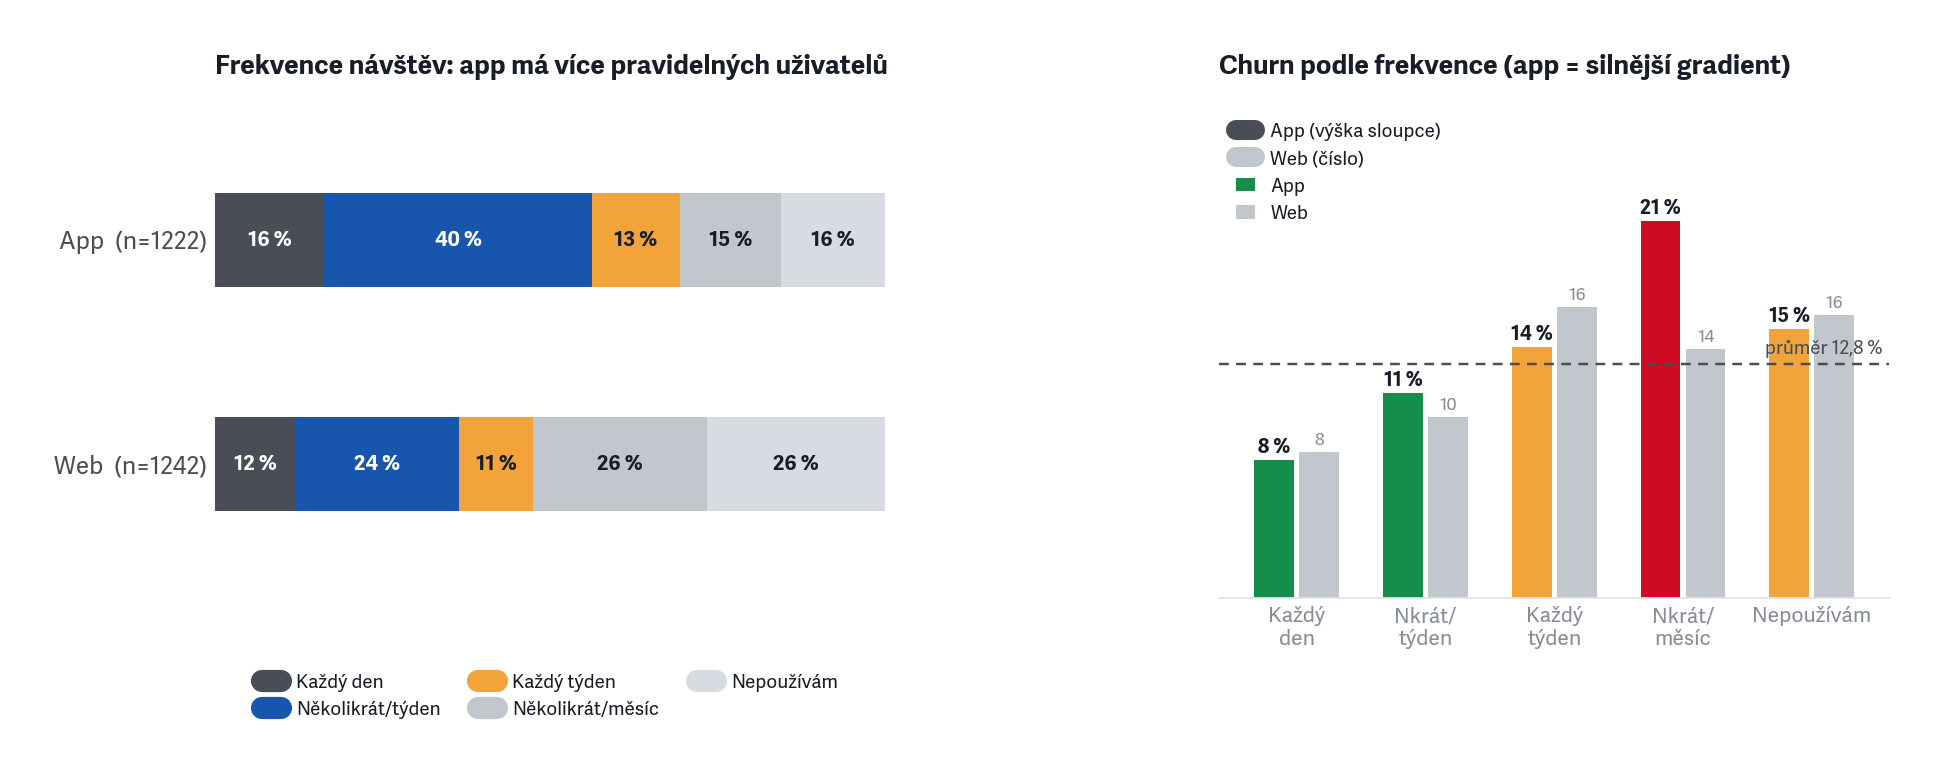
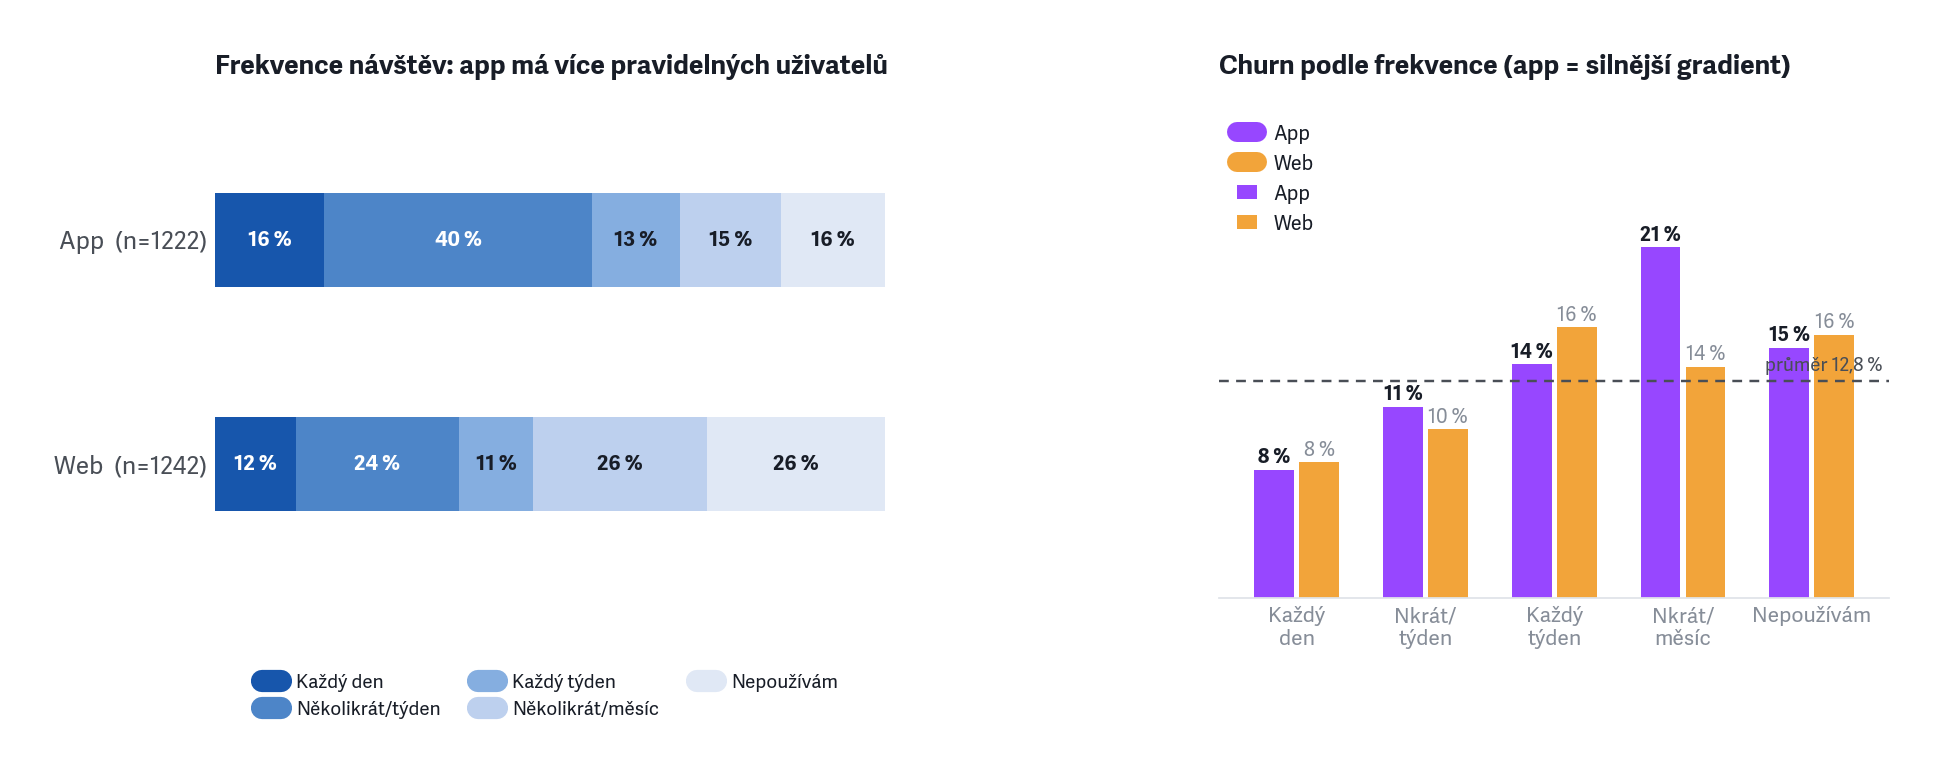
frekv_web_app.png: barvy opraveny (fialová=app, žlutá=web, modrý gradient vlevo)

diff --git a/charts/make_charts.py b/charts/make_charts.py
@@ -405,7 +405,8 @@ def chart_frekv_web_app():
     cats_hi2lo = [4, 3, 2, 1, 0]
     cat_labels  = {4: "Každý den", 3: "Několikrát/týden",
                    2: "Každý týden", 1: "Několikrát/měsíc", 0: "Nepoužívám"}
-    cat_colors  = [GRAPHITE, BLUE, AMBER, GRAYBAR, "#D8DCE2"]
+    # spektrum analogické k heatmapám: tmavá modrá → světle modrá → skoro bílá
+    cat_colors  = ["#1756AC", "#4D85C8", "#85AEE0", "#BDD0EE", "#E0E8F5"]
 
     def dist(ser):
         valid = ser.dropna()
@@ -442,9 +443,10 @@ def chart_frekv_web_app():
             w = data[v]
             ax1.barh(ri, w, left=x, height=bar_h, color=color, zorder=2)
             if w >= 7:
+                is_dark = color in ("#1756AC", "#4D85C8")
                 ax1.text(x + w / 2, ri, f"{w:.0f} %",
                          ha="center", va="center", fontsize=9.5,
-                         color="white" if color in (GRAPHITE, BLUE) else INK,
+                         color="white" if is_dark else INK,
                          fontweight="bold")
             x += w
 
@@ -469,28 +471,27 @@ def chart_frekv_web_app():
     bw     = 0.35
     labels_short = ["Každý\nden", "Nkrát/\ntýden", "Každý\ntýden", "Nkrát/\nměsíc", "Nepoužívám"]
 
-    for di, (ser_ch, color, series_label) in enumerate(
-            [(app_ch, GRAPHITE, "App"), (web_ch, GRAYBAR, "Web")]):
+    APP_COLOR = PURPLE   # fialová
+    WEB_COLOR = AMBER    # žlutá
+
+    for di, (ser_ch, bar_color, series_label) in enumerate(
+            [(app_ch, APP_COLOR, "App"), (web_ch, WEB_COLOR, "Web")]):
         for xi, v in enumerate(cats_hi2lo):
             val, n = ser_ch[v]
             if val is None:
                 continue
             xpos = xi + di * bw - bw / 2
-            bar_color = RED if val > 16 else (AMBER if val > 12 else GREEN)
-            bar_color = bar_color if di == 0 else GRAYBAR
             ax2.bar(xpos, val, width=bw * 0.88, color=bar_color, zorder=2,
                     label=series_label if xi == 0 else "")
-            if di == 0:
-                ax2.text(xpos, val + 0.4, f"{val:.0f} %",
-                         ha="center", fontsize=9, color=INK, fontweight="bold")
-            else:
-                ax2.text(xpos, val + 0.4, f"{val:.0f}",
-                         ha="center", fontsize=8, color=GRAY)
+            ax2.text(xpos, val + 0.4, f"{val:.0f} %",
+                     ha="center", fontsize=9,
+                     color=INK if di == 0 else GRAY,
+                     fontweight="bold" if di == 0 else "normal")
 
     ax2.set_xticks([i for i in x_pos])
     ax2.set_xticklabels(labels_short, fontsize=9.5)
     ax2.set_xlim(-0.6, len(cats_hi2lo) - 0.4)
-    ax2.set_ylim(0, 27)
+    ax2.set_ylim(0, 29)
     ax2.set_yticks([])
     for s in ("top", "right", "left"): ax2.spines[s].set_visible(False)
     ax2.spines["bottom"].set_color(HAIRLINE)
@@ -500,10 +501,10 @@ def chart_frekv_web_app():
     ax2.text(len(cats_hi2lo) - 0.45, 13.4, "průměr 12,8 %",
              ha="right", fontsize=8.5, color=GRAPHITE)
 
-    # legenda pro pravý panel
-    ax2.plot([], [], color=GRAPHITE, linewidth=9, solid_capstyle="round", label="App (výška sloupce)")
-    ax2.plot([], [], color=GRAYBAR,  linewidth=9, solid_capstyle="round", label="Web (číslo)")
-    ax2.legend(fontsize=8.5, frameon=False, loc="upper left", handlelength=1.0)
+    # legenda
+    ax2.plot([], [], color=APP_COLOR, linewidth=9, solid_capstyle="round", label="App")
+    ax2.plot([], [], color=WEB_COLOR, linewidth=9, solid_capstyle="round", label="Web")
+    ax2.legend(fontsize=9, frameon=False, loc="upper left", handlelength=1.0)
 
     ax2.set_title("Churn podle frekvence (app = silnější gradient)",
                   fontsize=12, fontweight="bold", color=INK, loc="left", pad=14)